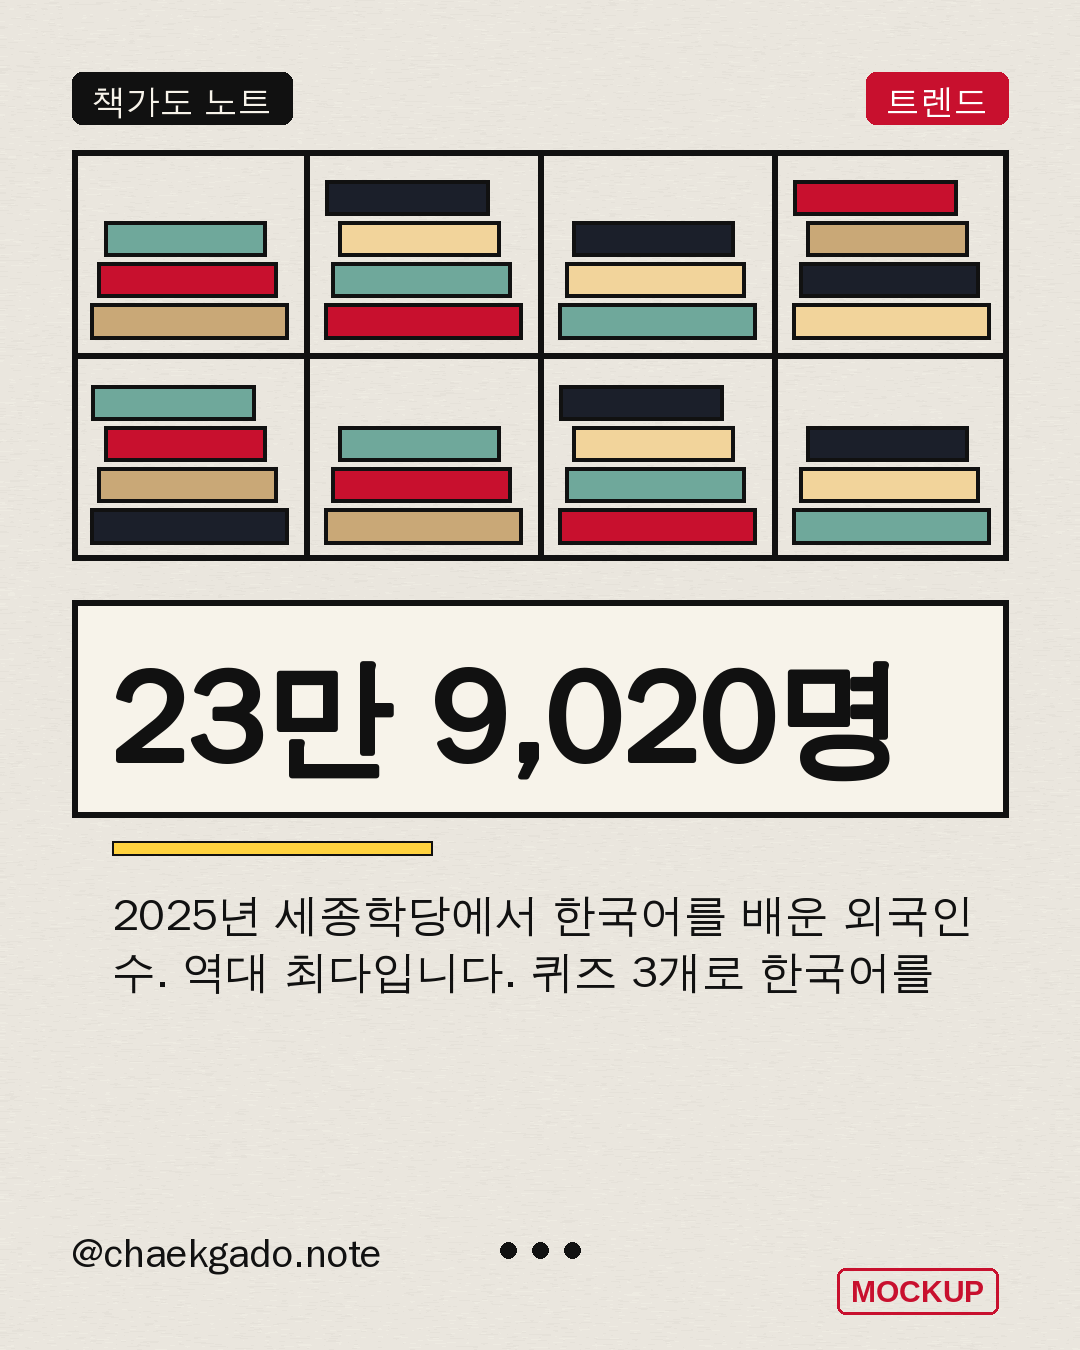
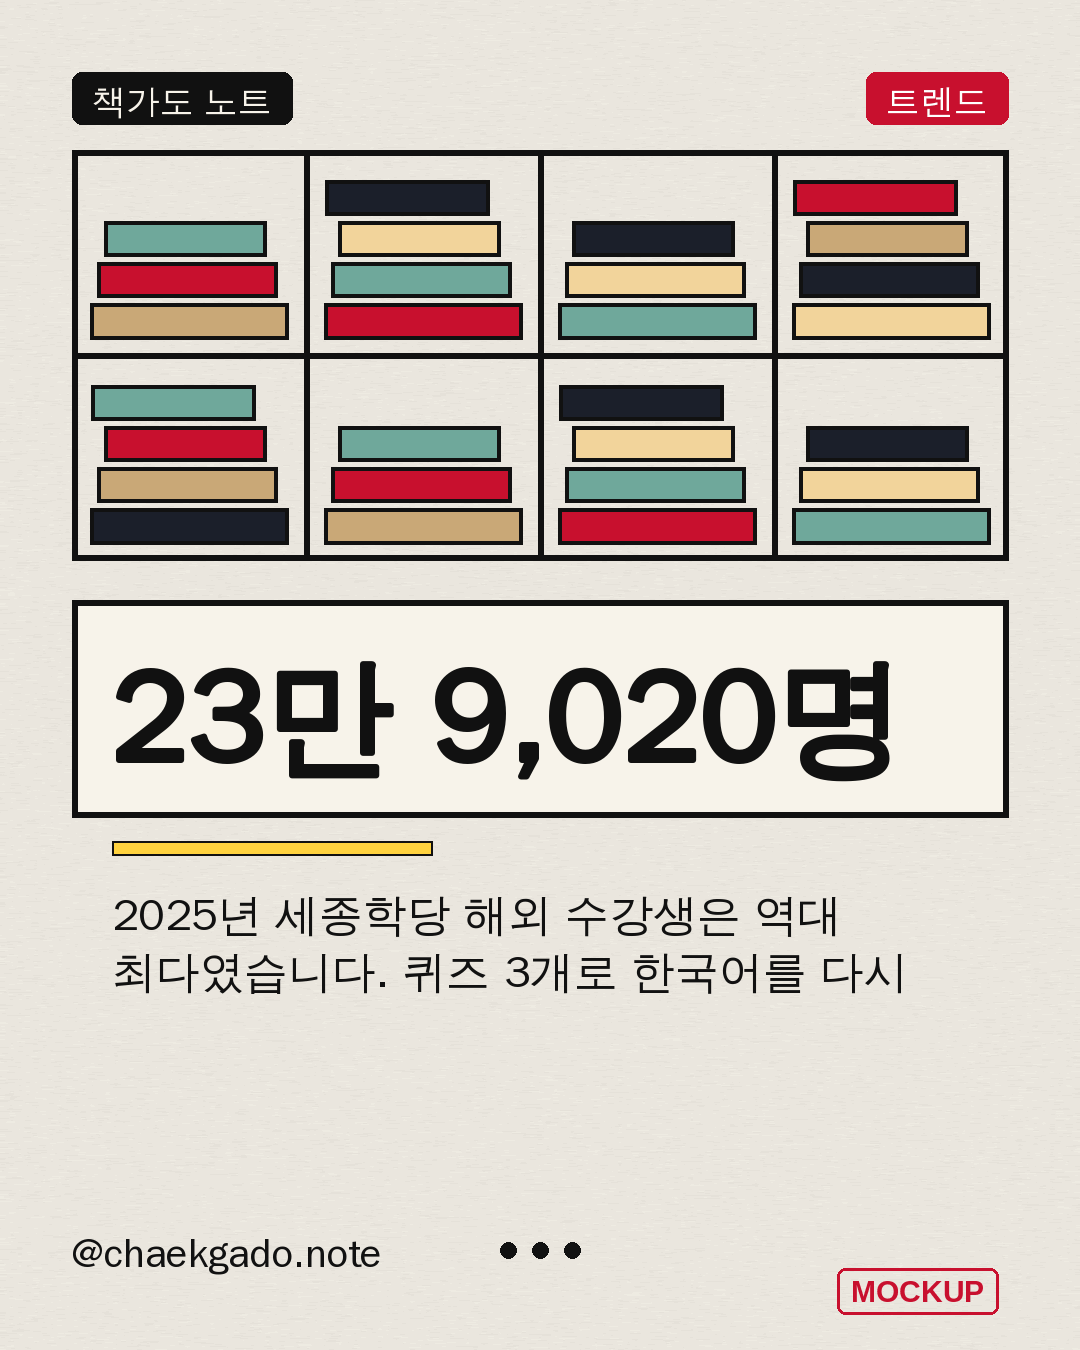
cardnews C1-1: apply legal FIX 2-8,10,11 (100돌, source-scoped wording, timeless cross-channel lines, 03 caption); renderer --final + RENDER.json; re-render v2
Claude-Session: https://claude.ai/code/session_01DGtEXjP7dUQLH1XB96k4Tg

Changed region(s): [[0.0917, 0.6533, 0.8861, 0.7467]]

diff --git a/cardnews/design/render_cards.py b/cardnews/design/render_cards.py
@@ -36,6 +36,7 @@ GRID_TOP, GRID_BOTTOM = 135, 1215  # 프로필 1:1 크롭 범위(헤드라인은
 HANDLE = "@chaekgado.note"
 ACCOUNT = "책가도 노트"
 MOCKUP_TAG = "MOCKUP"
+FINAL = False  # --final: 게시용 렌더(MOCKUP 표기 생략, RENDER.json에 mode=final 기록). approved 전에는 쓰지 않는다 (COO 2026-10-02)
 
 # 타이포 크기(px). 헤드라인 >=72, 본문 >=40 (폰 가독)
 SIZE = {
@@ -299,6 +300,8 @@ def signature_bar(d, x, y, w):
 
 
 def mockup_tag(img, fonts):
+    if FINAL:
+        return
     d = ImageDraw.Draw(img)
     f = font(fonts["latin"], SIZE["mockup"])
     tw = text_w(d, MOCKUP_TAG, f)
@@ -529,6 +532,10 @@ def render_post(post_dir, fonts, verbose=True):
         print(f"[{post_dir}] {len(outputs)} cards -> card-01..{total:02d}.png, contact.png")
         for w in warns:
             print("  warn:", w)
+    import datetime as _dt
+    with open(os.path.join(post_dir, "RENDER.json"), "w", encoding="utf-8") as fp:
+        json.dump({"mode": "final" if FINAL else "mockup", "rendered_at": _dt.datetime.utcnow().isoformat() + "Z",
+                   "fonts": {k: str(v) for k, v in fonts.items()}, "cards": total, "renderer": "render_cards.py"}, fp, ensure_ascii=False, indent=2)
     return outputs, cpath, warns
 
 
@@ -556,9 +563,11 @@ def main():
     ap.add_argument("post_dir", nargs="?", help="cards.json 이 있는 게시물 폴더")
     ap.add_argument("--all", metavar="POSTS_DIR", help="하위 폴더 중 cards.json 이 있는 것 전부 렌더")
     ap.add_argument("--rgb", action="store_true", help="PNG-24로 저장(기본은 PNG-8 적응 팔레트)")
+    ap.add_argument("--final", action="store_true", help="게시용 렌더: MOCKUP 표기 생략, RENDER.json mode=final (approved 후에만)")
     args = ap.parse_args()
-    global SAVE_RGB
+    global SAVE_RGB, FINAL
     SAVE_RGB = args.rgb
+    FINAL = args.final
     fonts = load_fonts()
     print("fonts:", {k: v for k, v in fonts.items()})
     targets = []
